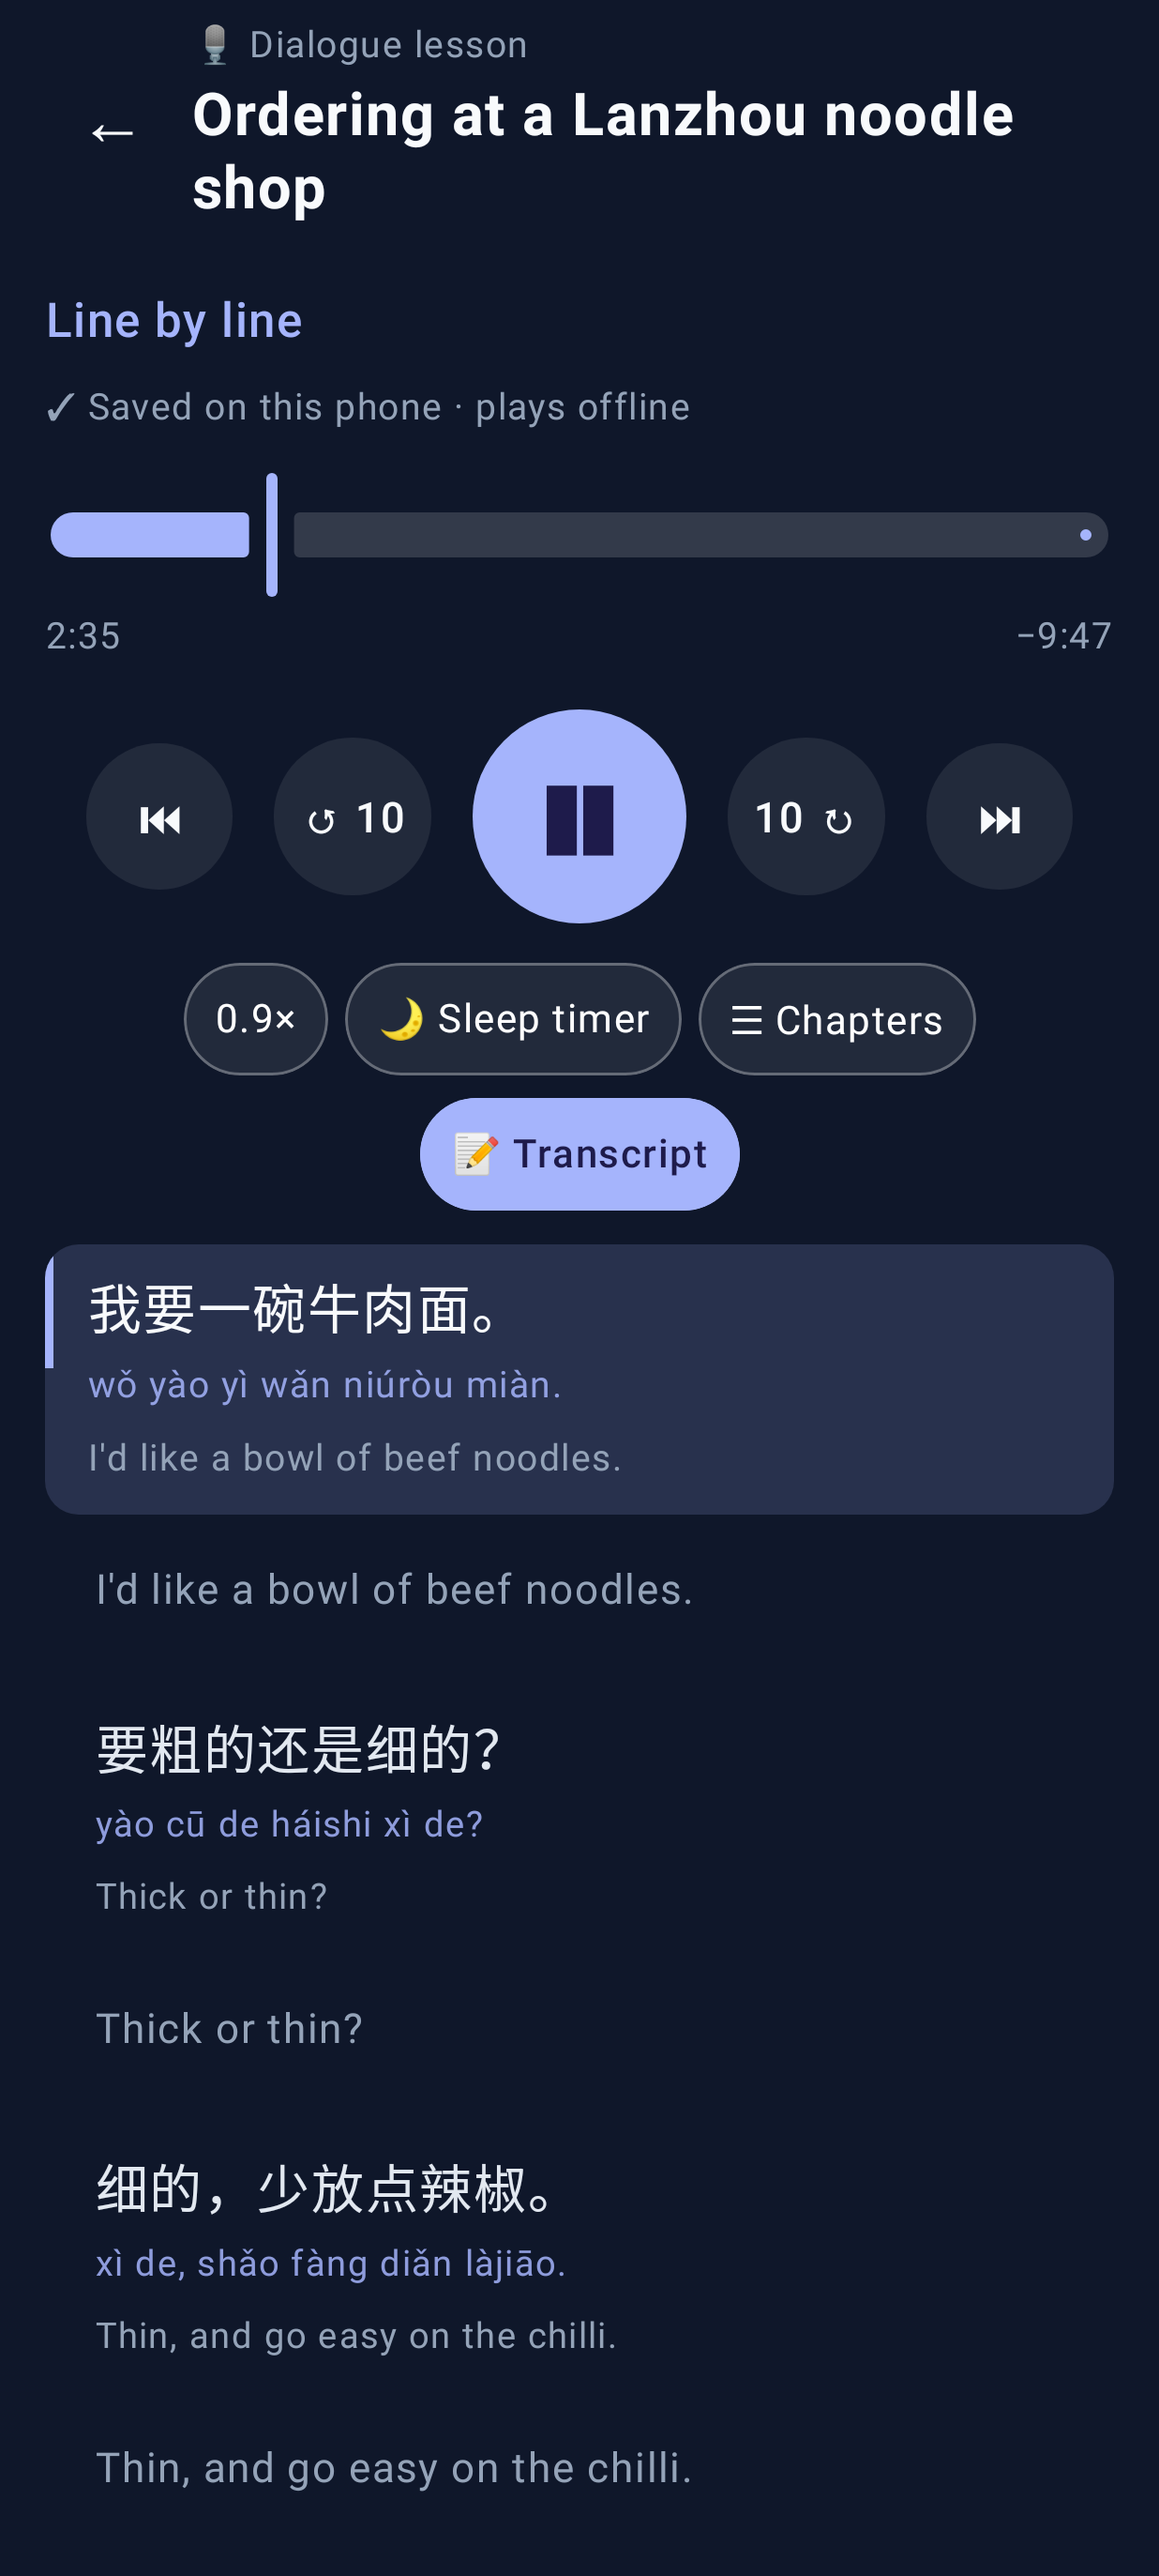
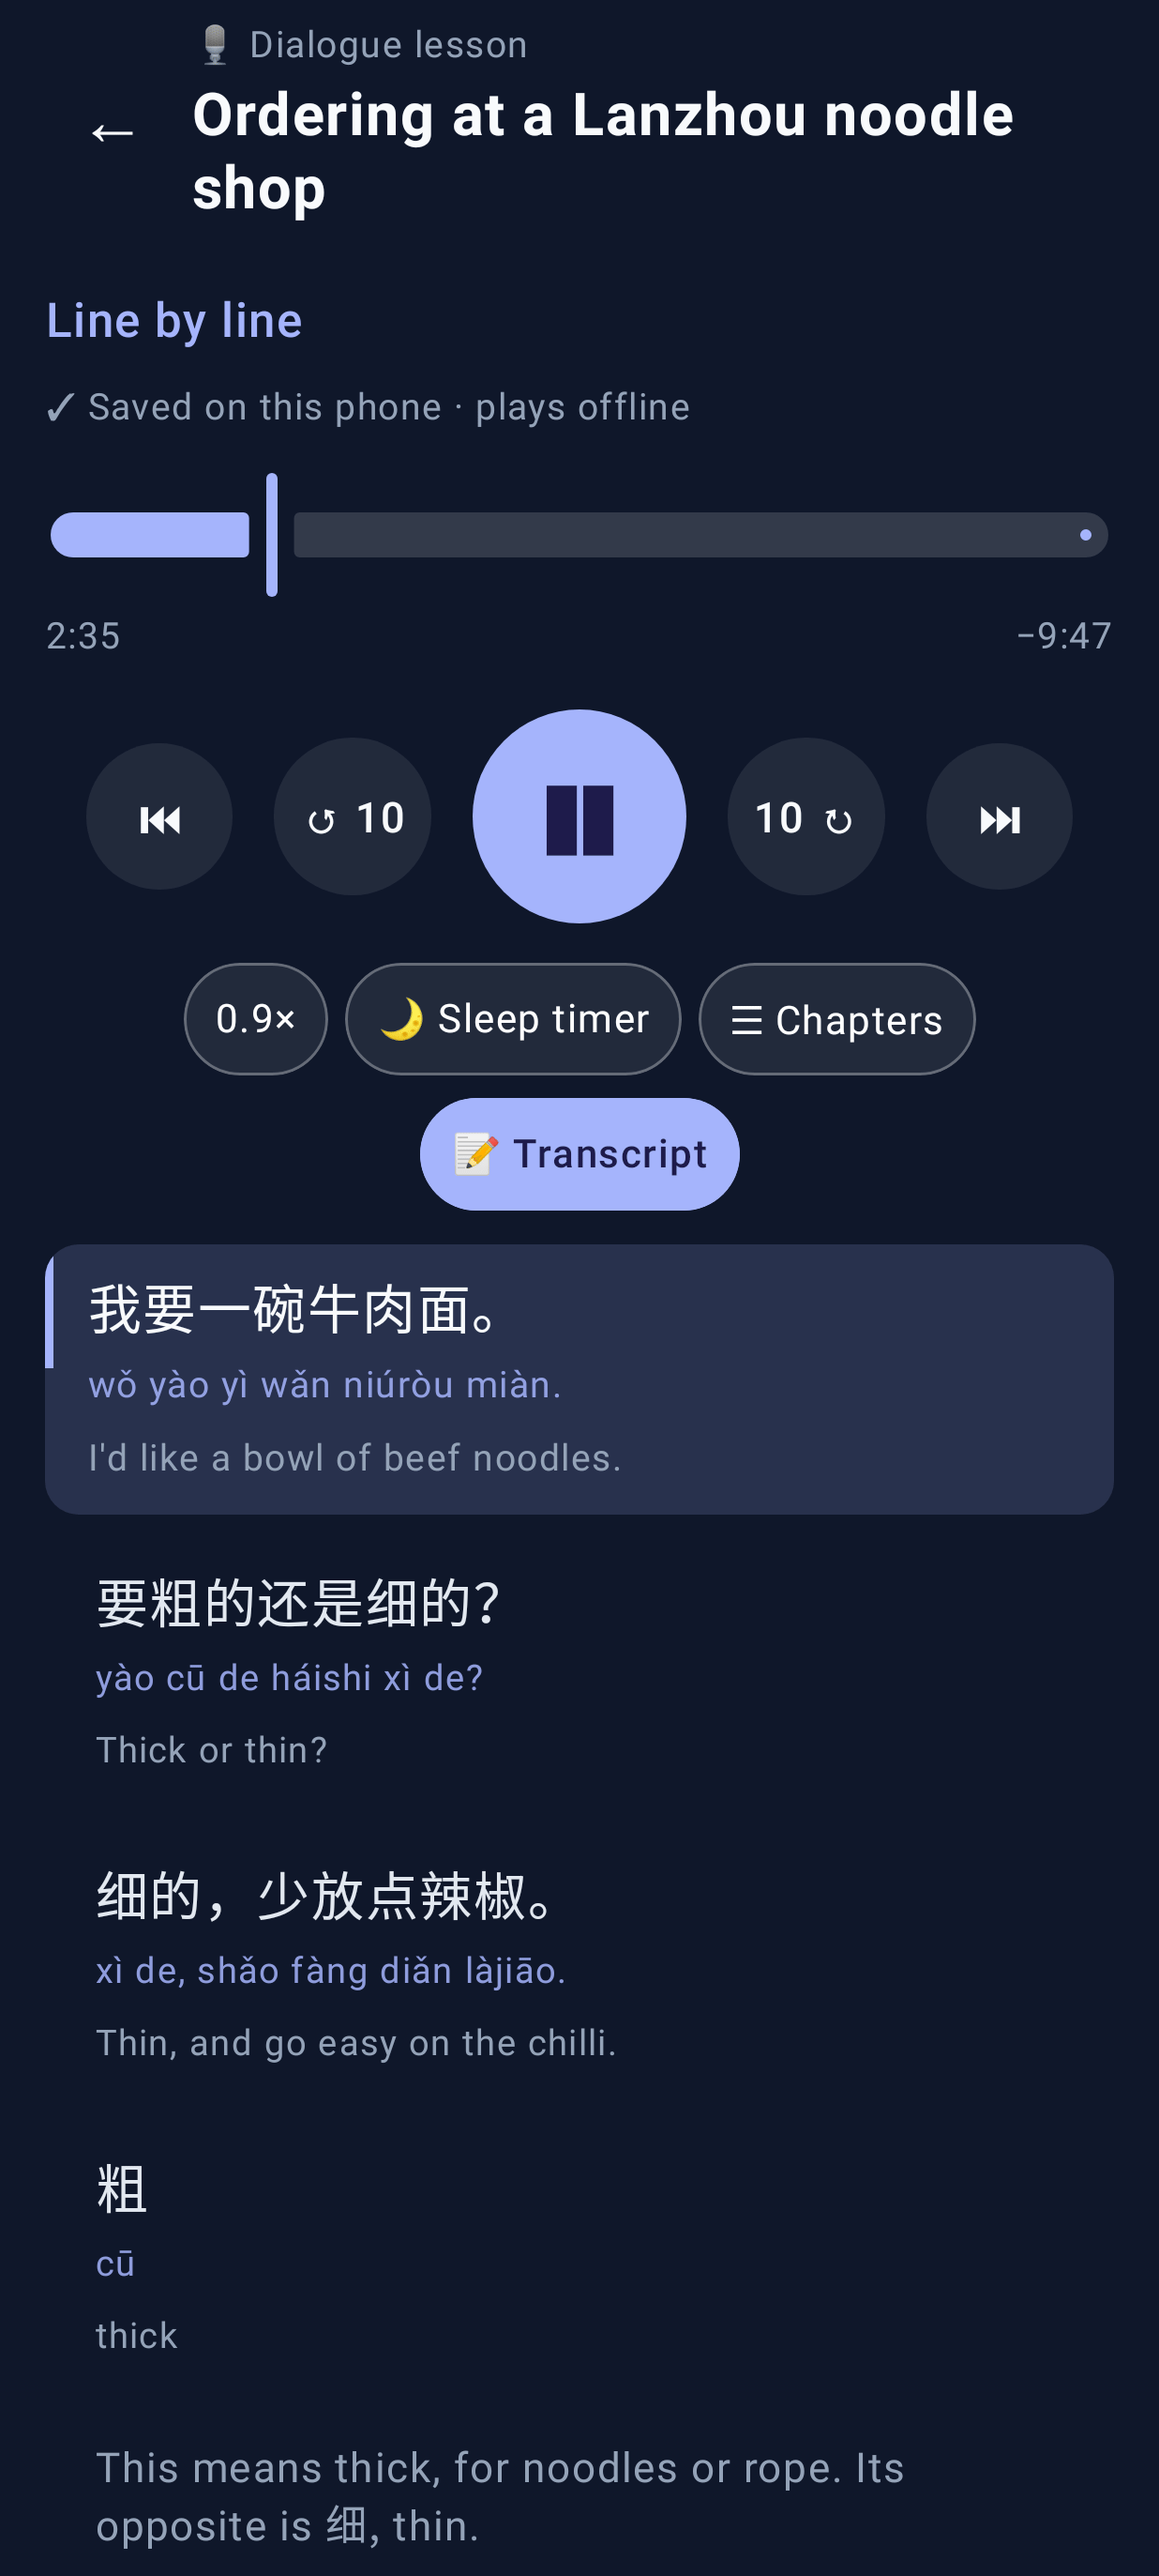
Audio lessons: the host's read-out translation joins its Chinese line in the transcript (web + Lab, parity-tested)
Claude-Session: https://claude.ai/code/session_01CncA3ySXzba85XxAQd3nym

diff --git a/shared/audio-lesson/audio-lesson.test.ts b/shared/audio-lesson/audio-lesson.test.ts
@@ -201,5 +201,9 @@ describe('transcriptRows', () => {
     expect(rows[0].text).toBe("You're at a busy Lanzhou beef noodle shop, a 兰州拉面 place. You order at the counter: the kind of noodle, how spicy, and whether you want an egg. Listen for how the staff ask about thickness.");
     expect(rows[1].text).toBe('First, just listen to the conversation.');
     expect(rows[2]).toMatchObject({ text: '你好，吃什么？', pinyin: 'nǐ hǎo, chī shénme?' });
+    // Line by line: the host's translation joins the Chinese line's row instead of repeating it.
+    expect(rows.filter((r) => r.text === "I'd like a bowl of beef noodles.")).toEqual([]);
+    const lineByLine = rows.filter((r) => r.text === '我要一碗牛肉面。' && r.last > r.first);
+    expect(lineByLine.length).toBe(1);
   });
 });

diff --git a/android-lab/core/src/main/kotlin/dev/jeromeswannack/chineselearning/lab/core/AudioLessonTimeline.kt b/android-lab/core/src/main/kotlin/dev/jeromeswannack/chineselearning/lab/core/AudioLessonTimeline.kt
@@ -145,6 +145,11 @@ object AudioLessonTimeline {
         lines.forEachIndexed { i, l ->
             val prev = rows.lastOrNull()
             val prevLine = lines.getOrNull(i - 1)
+            // The host reading the translation of the line just shown under it ("Line by line"): one row.
+            if (prev != null && l.voice == "narrator" && !prev.english.isNullOrEmpty() && jsTrim(prev.english) == jsTrim(l.text)) {
+                rows[rows.size - 1] = prev.copy(last = i)
+                return@forEachIndexed
+            }
             val open = prev != null && prevLine != null && isNarration(prevLine) && isNarration(l) &&
                 prevLine.chapter == l.chapter && !SENTENCE_END.containsMatchIn(jsTrim(prevLine.text))
             if (open) {

diff --git a/shared/audio-lesson/timeline.ts b/shared/audio-lesson/timeline.ts
@@ -131,6 +131,11 @@ export function transcriptRows(lines: AudioLessonTranscriptLine[]): TranscriptRo
   lines.forEach((l, i) => {
     const prev = rows[rows.length - 1];
     const prevLine = lines[i - 1];
+    // The host reading the translation of the line just shown under it ("Line by line"): one row.
+    if (prev && l.voice === 'narrator' && prev.english && prev.english.trim() === l.text.trim()) {
+      prev.last = i;
+      return;
+    }
     const open = prev && prevLine && isNarration(prevLine) && isNarration(l) && prevLine.chapter === l.chapter && !/[.!?:]["”’)]?$/.test(prevLine.text.trim());
     if (open) {
       const glue = l.lang === 'zh' || prevLine.lang === 'zh' ? (/^[,.;:!?]/.test(l.text) ? '' : ' ') : ' ';
